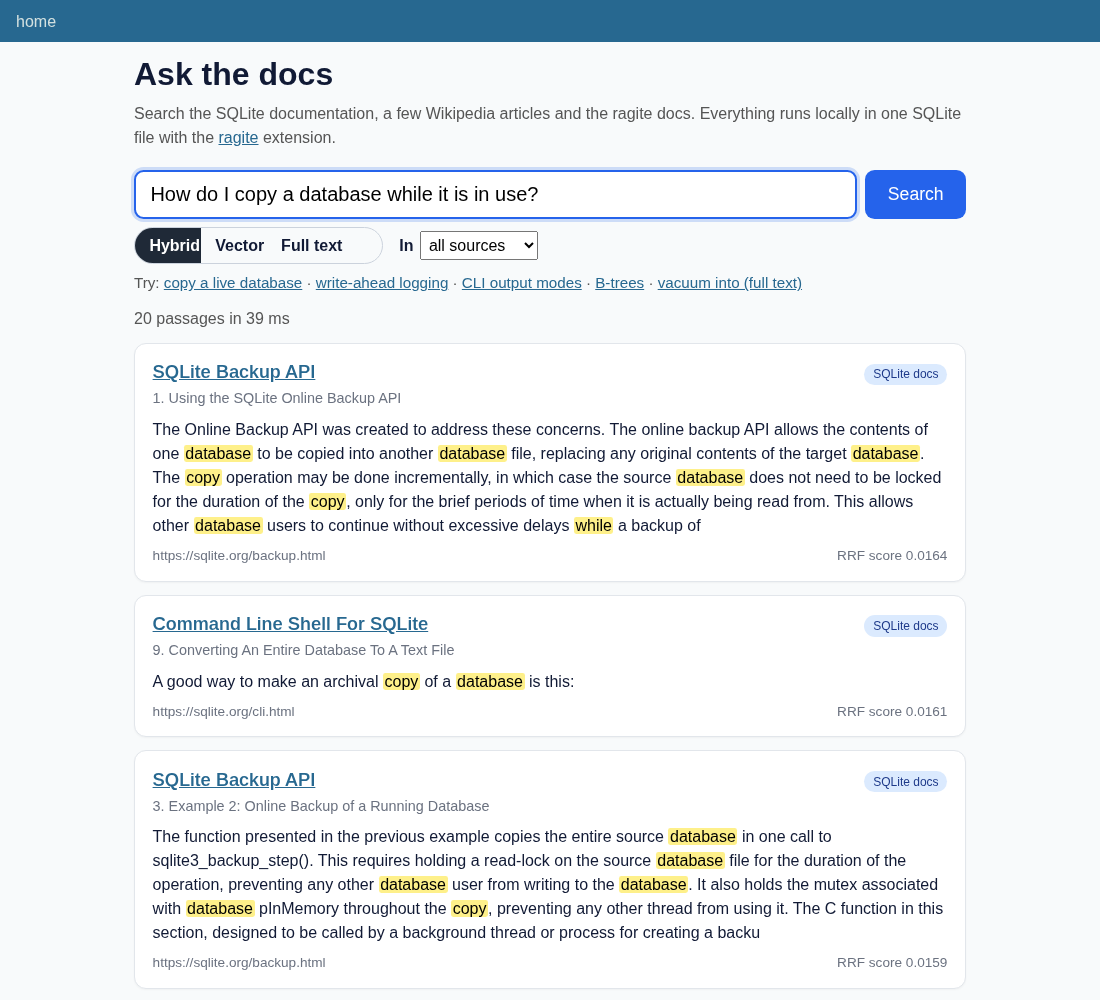
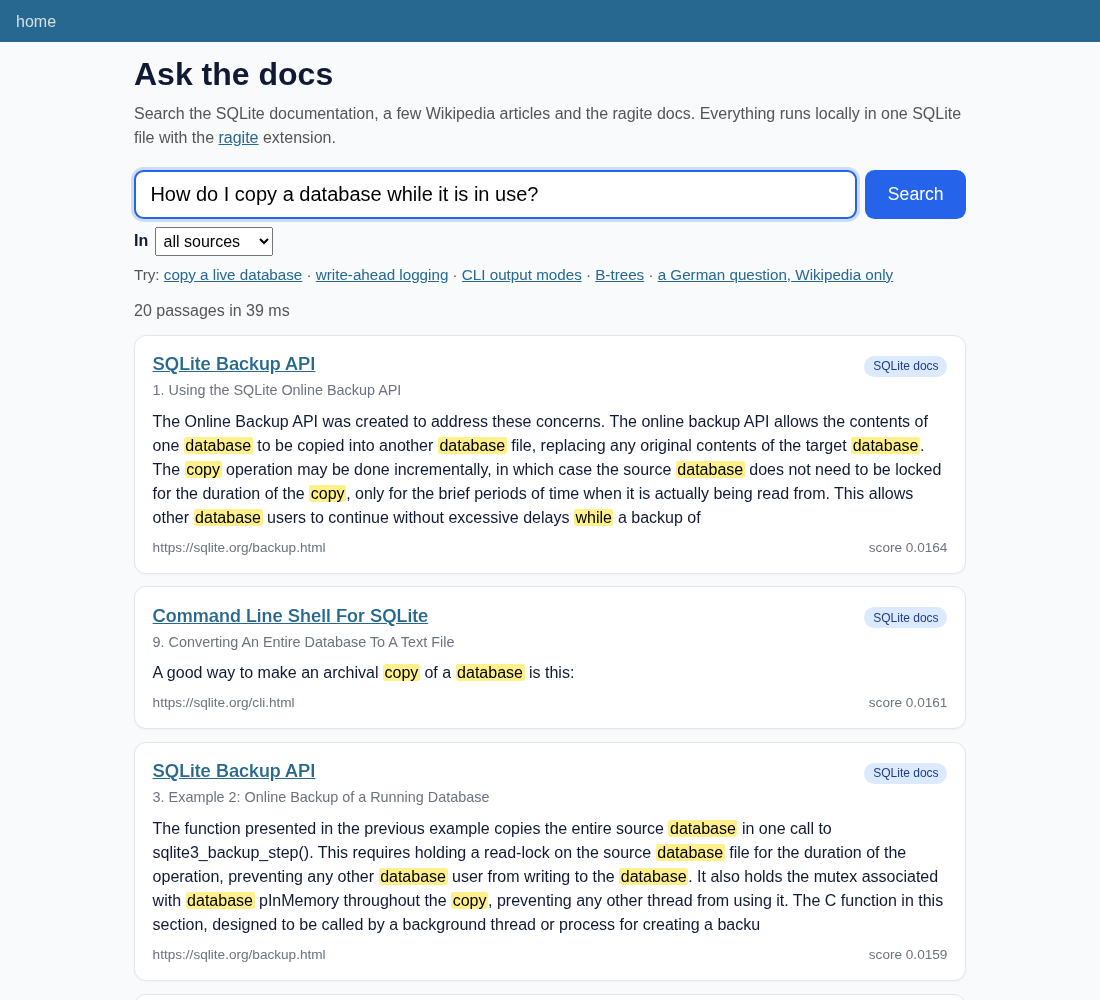
refactor: use only ragite's public hybrid MATCH, drop vector-only and full-text modes

diff --git a/app/static/search.js b/app/static/search.js
@@ -1,4 +1,4 @@
-// Search page for the ragite demo. Calls the canned queries in metadata.yml through
+// Search page for the ragite demo. Calls the hybrid canned query `search` (metadata.yml) through
 // Datasette's JSON API and renders the rows as cards. No external dependencies.
 (function () {
   "use strict";
@@ -12,22 +12,10 @@
   const results = document.getElementById("rs-results");
   const sqlLink = document.getElementById("rs-sql");
 
-  const QUERIES = { hybrid: "search", vector: "vector_search", fulltext: "fulltext_search" };
-  const SCORE_LABEL = { hybrid: "RRF score", vector: "cosine similarity", fulltext: "BM25" };
   const COLLECTION_LABEL = { "sqlite-docs": "SQLite docs", wikipedia: "Wikipedia", "ragite-docs": "ragite docs" };
-
-  function mode() {
-    return form.querySelector('input[name="mode"]:checked').value;
-  }
 
   function words(q) {
     return (q.match(/[\p{L}\p{N}_]+/gu) || []);
-  }
-
-  // Full-text mode: every word must occur (FTS5 implicit AND), each one quoted so that
-  // punctuation and FTS5 keywords in the input cannot break the query.
-  function ftsQuery(q) {
-    return words(q).map((w) => '"' + w + '"').join(" ");
   }
 
   function escapeHtml(s) {
@@ -50,7 +38,7 @@
     }
   }
 
-  function card(row, q, m) {
+  function card(row, q) {
     const li = document.createElement("li");
     li.className = "rs-card";
     const path = headingPath(row.heading_path);
@@ -63,18 +51,16 @@
       (path ? '<div class="rs-card-path">' + escapeHtml(path) + "</div>" : "") +
       '<p class="rs-card-text">' + highlight(row.chunk || "", q) + "</p>" +
       '<div class="rs-card-meta"><span class="rs-card-source">' + escapeHtml(row.url) + "</span>" +
-        '<span class="rs-score" title="' + SCORE_LABEL[m] + '">' + SCORE_LABEL[m] + " " +
-        Number(row.score).toFixed(m === "hybrid" ? 4 : 3) + "</span></div>";
+        '<span class="rs-score" title="Reciprocal Rank Fusion score, higher is better">score ' +
+        Number(row.score).toFixed(4) + "</span></div>";
     return li;
   }
 
   async function run(pushState) {
     const q = input.value.trim();
-    const m = mode();
     const coll = collection.value;
     const params = new URLSearchParams();
     if (q) params.set("q", q);
-    if (m !== "hybrid") params.set("mode", m);
     if (coll) params.set("collection", coll);
     if (pushState) history.pushState(null, "", "?" + params.toString());
 
@@ -84,25 +70,20 @@
       status.textContent = "";
       return;
     }
-    const sent = m === "fulltext" ? ftsQuery(q) : q;
-    if (!sent) {
-      status.textContent = "Full-text search needs at least one word.";
-      return;
-    }
-    const api = new URLSearchParams({ q: sent, collection: coll });
-    const page = db + "/" + QUERIES[m] + "?" + api.toString();
+    const api = new URLSearchParams({ q: q, collection: coll });
+    const page = db + "/search?" + api.toString();
     status.textContent = "Searching…";
     const started = performance.now();
     try {
-      const resp = await fetch(db + "/" + QUERIES[m] + ".json?" + api.toString() + "&_shape=objects");
+      const resp = await fetch(db + "/search.json?" + api.toString() + "&_shape=objects");
       const data = await resp.json();
       if (!resp.ok || data.ok === false) throw new Error(data.error || resp.statusText);
       const rows = data.rows || [];
       const ms = Math.round(performance.now() - started);
       status.textContent = rows.length
         ? rows.length + " passage" + (rows.length === 1 ? "" : "s") + " in " + ms + " ms"
-        : "No passages found." + (m === "fulltext" ? " Full text needs every word; try Hybrid." : "");
-      rows.forEach((row) => results.appendChild(card(row, q, m)));
+        : "No passages found.";
+      rows.forEach((row) => results.appendChild(card(row, q)));
       sqlLink.innerHTML = '<a href="' + escapeHtml(page) + '">Show this search as SQL</a> · ';
     } catch (err) {
       status.textContent = "Search failed: " + err.message;
@@ -112,9 +93,6 @@
   function fromUrl() {
     const params = new URLSearchParams(location.search);
     input.value = params.get("q") || "";
-    const m = params.get("mode") || "hybrid";
-    const radio = form.querySelector('input[name="mode"][value="' + (QUERIES[m] ? m : "hybrid") + '"]');
-    if (radio) radio.checked = true;
     collection.value = params.get("collection") || "";
     run(false);
   }
@@ -123,7 +101,6 @@
     e.preventDefault();
     run(true);
   });
-  form.querySelectorAll('input[name="mode"]').forEach((r) => r.addEventListener("change", () => input.value.trim() && run(true)));
   collection.addEventListener("change", () => input.value.trim() && run(true));
   window.addEventListener("popstate", fromUrl);
   fromUrl();

diff --git a/app/templates/pages/search.html b/app/templates/pages/search.html
@@ -23,12 +23,6 @@
     <button class="rs-go" type="submit">Search</button>
 
     <div class="rs-options">
-      <fieldset class="rs-modes">
-        <legend class="rs-visually-hidden">Ranking</legend>
-        <label><input type="radio" name="mode" value="hybrid" checked> Hybrid</label>
-        <label><input type="radio" name="mode" value="vector"> Vector</label>
-        <label><input type="radio" name="mode" value="fulltext"> Full text</label>
-      </fieldset>
       <label class="rs-coll">In
         <select name="collection" id="rs-collection">
           <option value="">all sources</option>
@@ -45,7 +39,7 @@
     <a href="?q=What+is+write-ahead+logging%3F">write-ahead logging</a> ·
     <a href="?q=change+the+output+mode+of+the+command+line+shell">CLI output modes</a> ·
     <a href="?q=Who+uses+B-trees+and+why%3F">B-trees</a> ·
-    <a href="?q=vacuum+into&amp;mode=fulltext">vacuum into (full text)</a>
+    <a href="?q=Wie+gro%C3%9F+ist+die+SQLite-Bibliothek%3F&amp;collection=wikipedia">a German question, Wikipedia only</a>
   </p>
 
   <p class="rs-status" id="rs-status" aria-live="polite"></p>

diff --git a/app/static/search.css b/app/static/search.css
@@ -8,11 +8,6 @@
 .rs button.rs-go { font-size: 1.1rem; padding: 0.7rem 1.4rem; border: 0; border-radius: 0.6rem; background: #2563eb; color: #fff; cursor: pointer; }
 .rs button.rs-go:hover { background: #1d4ed8; }
 .rs-options { flex-basis: 100%; display: flex; flex-wrap: wrap; gap: 1rem; align-items: center; }
-.rs-modes { border: 0; padding: 0; margin: 0; display: inline-flex; border: 1px solid #cbd2dc; border-radius: 999px; overflow: hidden; }
-.rs-modes label { padding: 0.35rem 0.9rem; cursor: pointer; white-space: nowrap; }
-.rs-modes input { position: absolute; opacity: 0; }
-.rs-modes label:has(input:checked) { background: #1f2937; color: #fff; }
-.rs-modes label:has(input:focus-visible) { outline: 2px solid #2563eb; }
 .rs-coll select { font-size: 1rem; padding: 0.25rem; }
 .rs-examples { color: #555; font-size: 0.95rem; }
 .rs-status { color: #555; min-height: 1.4em; }

diff --git a/tests/test_demo.py b/tests/test_demo.py
@@ -71,28 +71,27 @@ async def test_collection_filter(ds):
 
 
 @pytest.mark.asyncio
-async def test_vector_search(ds):
-    found = await rows(ds, "vector_search", q="What is write-ahead logging?")
-    assert found and "wal.html" in found[0]["url"]
-    assert all(-1.0 <= r["score"] <= 1.0 for r in found)
-
-
-@pytest.mark.asyncio
-async def test_fulltext_search(ds):
-    found = await rows(ds, "fulltext_search", q='"vacuum" "into"')
-    assert found and all("vacuum" in r["chunk"].lower() for r in found)
-
-
-@pytest.mark.asyncio
 async def test_document_search(ds):
     found = await rows(ds, "search_documents", q="command line shell output modes")
     assert any("cli.html" in r["url"] for r in found[:3])
+    assert len({r["url"] for r in found}) == len(found)
+    wiki = await rows(ds, "search_documents", q="What is a B-tree?", collection="wikipedia")
+    assert wiki and all(r["collection"] == "wikipedia" for r in wiki)
 
 
 @pytest.mark.asyncio
 async def test_empty_query_returns_nothing(ds):
-    for query in ("search", "vector_search"):
+    for query in ("search", "search_documents"):
         assert await rows(ds, query, q="") == []
+
+
+@pytest.mark.asyncio
+async def test_only_hybrid_queries_are_offered(ds):
+    # The demo uses ragite's public interface only: MATCH on docs and docs_chunks.
+    queries = (await ds.client.get("/demo.json")).json()["queries"]
+    assert sorted(q["name"] for q in queries) == ["search", "search_documents"]
+    for q in queries:
+        assert "docs_vec" not in q["sql"] and "docs_fts" not in q["sql"]
 
 
 @pytest.mark.asyncio
@@ -100,5 +99,6 @@ async def test_search_page_and_assets(ds):
     page = await ds.client.get("/search")
     assert page.status_code == 200
     assert 'id="rs-q"' in page.text and "/static/search.js" in page.text
+    assert 'name="mode"' not in page.text
     for asset in ("search.js", "search.css"):
         assert (await ds.client.get(f"/static/{asset}")).status_code == 200

diff --git a/tests/screenshot.py b/tests/screenshot.py
@@ -12,9 +12,8 @@ from pathlib import Path
 from playwright.sync_api import sync_playwright
 
 SHOTS = [
-    ("search-hybrid.png", "/search?q=How+do+I+copy+a+database+while+it+is+in+use%3F"),
-    ("search-vector.png", "/search?q=What+is+write-ahead+logging%3F&mode=vector"),
-    ("search-fulltext.png", "/search?q=vacuum+into&mode=fulltext"),
+    ("search.png", "/search?q=How+do+I+copy+a+database+while+it+is+in+use%3F"),
+    ("search-wikipedia.png", "/search?q=What+is+a+B-tree%3F&collection=wikipedia"),
 ]
 
 

diff --git a/README.md b/README.md
@@ -39,18 +39,16 @@ Pass the library path **without** `.so`: SQLite adds the suffix itself (see the 
 
 ## What you can do
 
-**Search page** (`/search`): type a question, pick *Hybrid*, *Vector* or *Full text*, and optionally limit it to one source. Results are cards with the document title, the heading path inside the document, the matching chunk with your words highlighted, the source link and the score. Every search links to the same query as SQL.
+**Search page** (`/search`): type a question and optionally limit it to one source. Results are cards with the document title, the heading path inside the document, the matching chunk with your words highlighted, the source link and the score. Every search links to the same query as SQL.
 
-**Canned queries** (`/demo`), usable from the browser or as JSON (`/demo/search.json?q=...&collection=&_shape=array`):
+**Canned queries** (`/demo`, hybrid search only), usable from the browser or as JSON (`/demo/search.json?q=...&collection=&_shape=array`):
 
 | Query | Ranking | Score |
 | --- | --- | --- |
 | `search` | Hybrid: `docs_chunks MATCH :q`, vector and BM25 fused by Reciprocal Rank Fusion | RRF score, higher is better (at most 2/61) |
 | `search_documents` | Hybrid, one row per document (`docs MATCH :q`) | RRF score of the best chunk |
-| `vector_search` | Vector only: `ragite_embed('docs', :q, 'query')` against the sqlite-vec table ragite maintains | cosine similarity |
-| `fulltext_search` | Full text only: FTS5 `MATCH` on the table ragite maintains, FTS5 query syntax | −bm25, higher is better |
 
-`collection` is empty for all sources, or one of `sqlite-docs`, `wikipedia`, `ragite-docs`.
+Both use only ragite's public interface, `MATCH` on the Document table and its `_chunks` companion. `collection` is empty for all sources, or one of `sqlite-docs`, `wikipedia`, `ragite-docs`.
 
 **Raw SQL** (`/demo?sql=...`), for example:
 
@@ -78,7 +76,7 @@ That is 8,778 chunks and a 24 MB `demo.db` (2 KB of vector per chunk). Exact sou
 ## Limits
 
 - The built-in model (potion-retrieval-32M) is trained for English. In this small set, German questions still find the German Wikipedia article, but expect weaker ranking for non-English text in general.
-- Hybrid full text matches the query as one phrase, so long questions usually rank by vector similarity alone. The *Full text* mode instead requires every word.
+- ragite's full-text side matches the query as one phrase, so long questions usually rank by vector similarity alone; short keyword queries get both.
 - The SQLite docs link to sqlite.org, which may already describe a newer version than 3.54.1.
 
 ## Tests

diff --git a/SPEC.md b/SPEC.md
@@ -7,7 +7,7 @@ Show what ragite does in a few minutes, with no code to write: one command build
 ## Decisions
 
 - **D1 Datasette as the base.** Datasette loads SQLite extensions, so ragite's `MATCH` queries run in its SQL views and JSON API. The demo adds canned queries (`app/metadata.yml`) and one custom page (`app/templates/pages/search.html`) that calls them; no own web server.
-- **D2 Search modes.** Hybrid uses ragite's public interface (`docs_chunks MATCH`, `docs MATCH`). Vector-only and full-text-only query the sqlite-vec and FTS5 tables ragite creates (`docs_vec`, `docs_fts`, documented in the ragite SPEC, section 5.1), with `ragite_embed` for the query vector. These two modes exist to compare rankings and depend on ragite's shadow-table layout.
+- **D2 Public interface only.** Every search is ragite's hybrid `MATCH` on `docs` (documents) or `docs_chunks` (chunks). No vector-only or full-text-only mode and no queries against ragite's storage tables (`docs_vec`, `docs_fts`, ...): they are not part of the ragite 1.0 spec.
 - **D3 Data.** SQLite documentation (public domain, a 74-page subset of the pinned doc archive), five Wikipedia articles (CC BY-SA 4.0, pinned revisions) and the ragite docs (MIT OR Apache-2.0, pinned commit). Only freely licensed data; no benchmark sets.
 - **D4 demo.db is built, not committed.** It is ~24 MB and rebuilt from pinned inputs in seconds. CI uploads it as an artifact with `DATA_SOURCES.md`.
 - **D5 HTML cleaning before indexing.** Page chrome, navigation, scripts, styles, SVG diagrams, infoboxes, footnote markers and link-only sections are removed so chunks hold prose. Text is not rewritten.

diff --git a/AGENTS.md b/AGENTS.md
@@ -18,7 +18,7 @@ Stack: Python 3.10+ (build script uses the standard library only), Datasette 0.6
 - `app/`: Datasette configuration directory (`metadata.yml` canned queries, `settings.json`, `templates/pages/search.html`, `static/`).
 - `tests/`: Datasette test-client checks (`test_demo.py`) and the Playwright screenshot script used in CI.
 
-Invariants: no data, `demo.db` or `libragite.so` in git; only freely licensed data, with attribution in `DATA_SOURCES.md` and `doc_info`; no CDN or external service at run time; use only the ragite SQL interface documented in its README and SPEC; heavy work runs in CI.
+Invariants: no data, `demo.db` or `libragite.so` in git; only freely licensed data, with attribution in `DATA_SOURCES.md` and `doc_info`; no CDN or external service at run time; use only ragite's public SQL interface (hybrid `MATCH` on `docs` and `docs_chunks`, never its storage tables, SPEC D2); heavy work runs in CI.
 
 - Tests: `make test` must pass before anything lands on `main`. Tests stay offline: no real accounts, tokens or live services.
 - No releases yet: there is no release workflow and no version file. CI uploads `demo.db` as an artifact.
